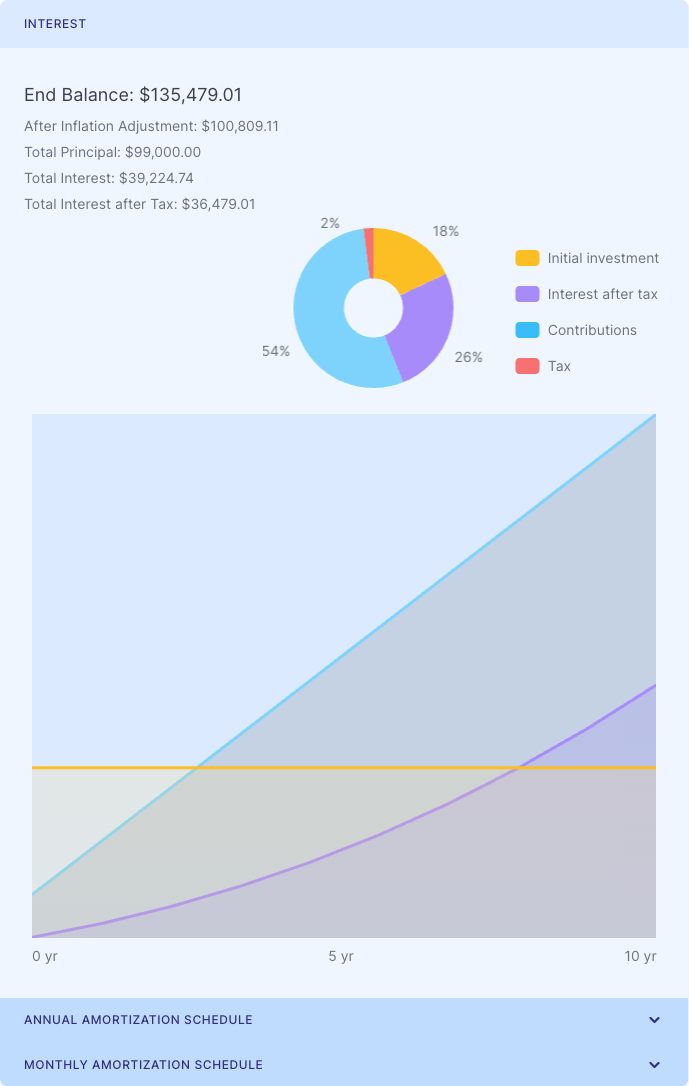
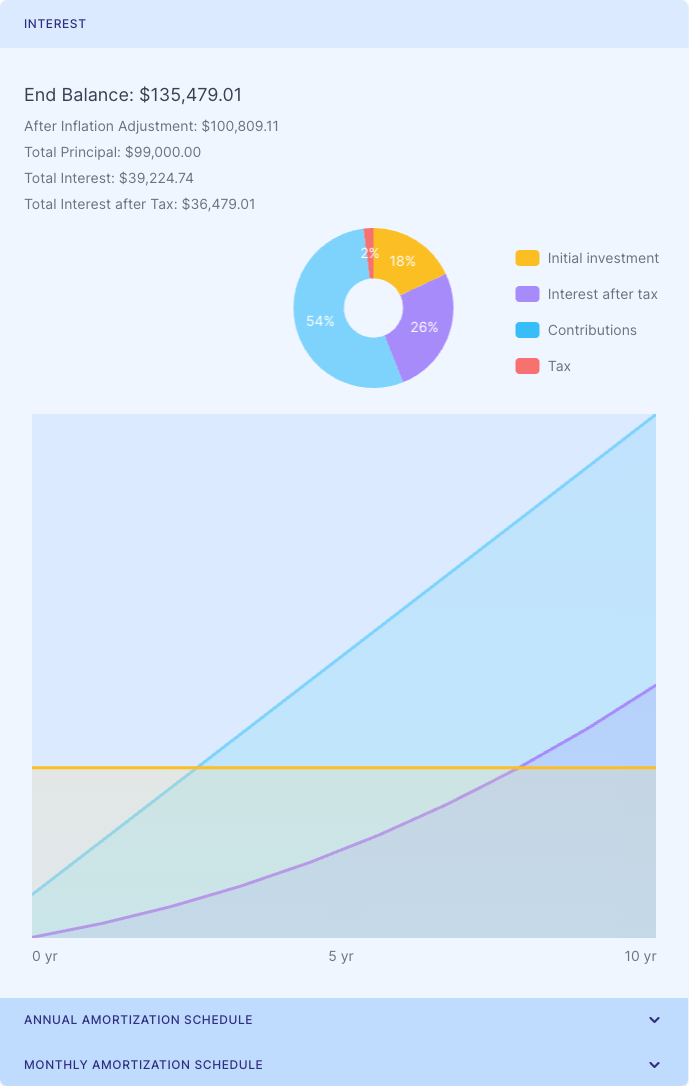
calculator changes commit

diff --git a/assets/js/chart.js b/assets/js/chart.js
@@ -22,6 +22,7 @@ import("./assets/js/lib/chartjs/chart.js").then((e) => {
 			tealGradientStart: 'rgba(56, 248, 222, 0.16)',
 			yellowGradientStop: 'rgba(250, 219, 139, 0)',
 			purpleGradientStop: 'rgba(104, 56, 248, 0)',
+			skyGradientStop: 'rgba(56, 248, 222, 0.16)',
 			gridColor: '#DBEAFE',
 			tooltipBackground: '#fff',
 			fractionColor: '#EDE9FE',
@@ -39,6 +40,7 @@ import("./assets/js/lib/chartjs/chart.js").then((e) => {
 			tealGradientStart: 'rgba(56, 248, 222, 0.16)',
 			yellowGradientStop: 'rgba(250, 219, 139, 0)',
 			purpleGradientStop: 'rgba(104, 56, 248, 0)',
+			skyGradientStop: 'rgba(56, 248, 222, 0.16)',
 			gridColor: '#162B64',
 			tooltipBackground: '#1C3782',
 			fractionColor: '#41467D',
@@ -85,17 +87,12 @@ import("./assets/js/lib/chartjs/chart.js").then((e) => {
 			data.datasets[0].data.forEach((datapoint, index) => {
 				const { x, y } = chart.getDatasetMeta(0).data[index].tooltipPosition();
 
-				let textXPosition = x >= 110 ? 'left' : 'right';
-
-				let xLine = x >= 110 ? x + 30 : x - 30;
-				let yLine = y >= 110 ? y + 30 : y - 30;
-
+				ctx.textAlign = 'center';
 				ctx.font = '14px Inter';
-				ctx.textAlign = textXPosition;
-				ctx.fillStyle = colors[theme].textColor;
+				ctx.fillStyle = '#fff';
 				ctx.textBaseline = 'middle';
-
-				ctx.fillText(`${datapoint}%`, xLine, yLine);
+				let toolTipText = datapoint != '0' ? datapoint + '%' : '';
+				ctx.fillText(toolTipText, x, y);
 			});
 		},
 	};
@@ -125,17 +122,12 @@ import("./assets/js/lib/chartjs/chart.js").then((e) => {
 				data.datasets[0].data.forEach((datapoint, index) => {
 					const { x, y } = chart.getDatasetMeta(0).data[index].tooltipPosition();
 
-					let textXPosition = x >= 110 ? 'left' : 'right';
-
-					let xLine = x >= 110 ? x + 30 : x - 30;
-					let yLine = y >= 110 ? y + 30 : y - 30;
-
+					ctx.textAlign = 'center';
 					ctx.font = '14px Inter';
-					ctx.textAlign = textXPosition;
-					ctx.fillStyle = colors[theme].textColor;
+					ctx.fillStyle = '#fff';
 					ctx.textBaseline = 'middle';
-
-					ctx.fillText(`${datapoint}%`, xLine, yLine);
+					let toolTipText = datapoint != '0' ? datapoint + '%' : '';
+					ctx.fillText(toolTipText, x, y);
 				});
 			},
 		};
@@ -149,7 +141,7 @@ import("./assets/js/lib/chartjs/chart.js").then((e) => {
 			plugins: [customDataLabels],
 		});
 
-		donutBig.data.datasets[0].backgroundColor = [colors[theme].purple, colors[theme].sky, colors[theme].yellow];
+		donutBig.data.datasets[0].backgroundColor = [colors[theme].yellow, colors[theme].purple, colors[theme].sky, colors[theme].red];
 		donutBig.update()
 	}
 
@@ -164,6 +156,10 @@ import("./assets/js/lib/chartjs/chart.js").then((e) => {
 	let purpleGradient = ctx.createLinearGradient(0, 0, 0, 1024);
 	purpleGradient.addColorStop(0, colors[theme].purpleGradientStart);
 	purpleGradient.addColorStop(1, colors[theme].purpleGradientStop);
+
+	let skyGradient = ctx.createLinearGradient(0, 0, 0, 1024);
+	skyGradient.addColorStop(0, colors[theme].skyGradientStart);
+	skyGradient.addColorStop(1, colors[theme].skyGradientStop);
 
 	let tooltip = {
 		enabled: false,
@@ -278,7 +274,6 @@ import("./assets/js/lib/chartjs/chart.js").then((e) => {
 				pointHoverBorderWidth: 2,
 				pointHoverRadius: 6,
 				pointHoverBorderColor: '#5045E5',
-				stack: 'combined',
 				stacked: true,
 				borderColor: colors[theme].purple,
 				backgroundColor: purpleGradient,
@@ -307,6 +302,7 @@ import("./assets/js/lib/chartjs/chart.js").then((e) => {
 				stack: 'combined',
 				stacked: true,
 				borderColor: colors[theme].sky,
+				backgroundColor: skyGradient,
 				fill: true,
 			},
 		],
@@ -373,7 +369,7 @@ import("./assets/js/lib/chartjs/chart.js").then((e) => {
 		chartLoan.data.datasets[0].borderColor = colors[theme].yellow;
 		chartLoan.data.datasets[1].backgroundColor = purpleGradient;
 		chartLoan.data.datasets[1].borderColor = colors[theme].purple;
-		chartLoan.data.datasets[2].backgroundColor = colors[theme].sky;
+		chartLoan.data.datasets[2].backgroundColor = skyGradient;
 		chartLoan.options.scales.y.grid.color = colors[theme].gridColor;
 		chartLoan.options.scales.x.grid.color = colors[theme].gridColor;
 		chartLoan.options.scales.y.ticks.color = colors[theme].gridColor;

diff --git a/assets/js/all-calculators.js b/assets/js/all-calculators.js
@@ -517,7 +517,7 @@ var allCalculators = [
     },
     {
         "title": "Work Hours Calculator",
-        "description": "Work hours calculator helps employees accurately calculate the number of hours worked each week with settings to account for breaks, hourly rounding, and military time. ",
+        "description": "Work hours calculator helps employees accurately calculate the number of hours worked each week with settings to account for breaks, hourly rounding, and military time.",
         "uri": "/work-hours-calculator/",
         "image": "../images/icon-96.png"
     },
@@ -528,7 +528,7 @@ var allCalculators = [
         "image": "../images/icon-96.png"
     },
     {
-        "title": "Fraction to percent calculator",
+        "title": "Fraction to Percent Calculator",
         "description": "Fraction to percent calculator converts proper and improper fractions to percentages. Calculator is using fraction-decimal-percent algorithm.",
         "uri": "/fraction-to-percent-calculator/",
         "image": "../images/icon-96.png"
@@ -723,6 +723,12 @@ var allCalculators = [
         "title": "Margin Calculator",
         "description": "Free margin calculator using the margin formula ((R - C) / R) × 100 to help businesses quickly calculate both margin and markup percentages based on cost and sale price.",
         "uri": "/margin-calculator/",
+        "image": "../images/icon-96.png"
+    },
+    {
+        "title": "Pace Calculator",
+        "description": "This free pace calculator computes pace, distance and time by setting values of two variables. You can use it for training purposes.",
+        "uri": "/pace-calculator/",
         "image": "../images/icon-96.png"
     },
     {
